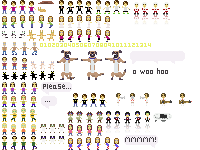
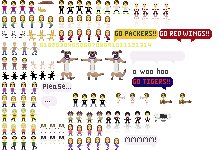
added go packers/tigers/red wings

diff --git a/demo/sarah/SpriteFactory.js b/demo/sarah/SpriteFactory.js
@@ -55,7 +55,6 @@
 			});
 		},
 
-
 		raceClock: function(position) {
 			return new L7.Actor({
 				framesConfig: {
@@ -511,6 +510,57 @@
 					initialFrame: 0,
 					anchor: L7.p(0, 0),
 					offset: L7.p(0, 108)
+				},
+				position: position || L7.p(0, 0)
+			});
+		},
+
+		goPackers: function(position) {
+			return new L7.Actor({
+				framesConfig: {
+					src: this.image,
+					width: 44,
+					height: 14,
+					direction: 'horizontal',
+					sets: [[0]],
+					initialSet: 0,
+					initialFrame: 0,
+					anchor: L7.p(0, 0),
+					offset: L7.p(114, 29)
+				},
+				position: position || L7.p(0, 0)
+			});
+		},
+
+		goTigers: function(position) {
+			return new L7.Actor({
+				framesConfig: {
+					src: this.image,
+					width: 40,
+					height: 14,
+					direction: 'horizontal',
+					sets: [[0]],
+					initialSet: 0,
+					initialFrame: 0,
+					anchor: L7.p(0, 0),
+					offset: L7.p(132, 77)
+				},
+				position: position || L7.p(0, 0)
+			});
+		},
+
+		goRedWings: function(position) {
+			return new L7.Actor({
+				framesConfig: {
+					src: this.image,
+					width: 52,
+					height: 14,
+					direction: 'horizontal',
+					sets: [[0]],
+					initialSet: 0,
+					initialFrame: 0,
+					anchor: L7.p(0, 0),
+					offset: L7.p(159, 29)
 				},
 				position: position || L7.p(0, 0)
 			});

diff --git a/demo/sarah/boards/LowerPeninsula.js b/demo/sarah/boards/LowerPeninsula.js
@@ -10,15 +10,34 @@
 		var chad = spriteFactory.chad(L7.p(10, 20));
 		var tammy = spriteFactory.tammy(L7.p(0, 21));
 		var troll = spriteFactory.troll(L7.p(3, 43));
+		var goTigers = spriteFactory.goTigers(L7.p(11, 5));
+		var goRedWings = spriteFactory.goRedWings(L7.p(3, 5));
 
 		board.addActors(matt, sarah, mom, dad, chad, tammy, troll);
 
-		board.ani.frame({
-			targets: [matt, sarah, mom, chad, tammy, troll],
-			pieceSetIndex: 1,
-			rate: 150,
-			looping: 'backforth',
-			loops: Infinity
+		board.ani.together(function(ani) {
+			ani.frame({
+				targets: [matt, sarah, mom, chad, tammy, troll],
+				pieceSetIndex: 1,
+				rate: 150,
+				looping: 'backforth',
+				loops: Infinity
+			});
+			ani.sequence(function(ani) {
+				ani.wait(1500);
+				ani.invoke(function() {
+					board.addActor(goTigers);
+				});
+				ani.wait(2000);
+				ani.invoke(function() {
+					board.removeActor(goTigers);
+					board.addActor(goRedWings);
+				});
+				ani.wait(2000);
+				ani.invoke(function() {
+					board.removeActor(goRedWings);
+				});
+			});
 		});
 
 		dad.ani.frame({

diff --git a/demo/sarah/boards/UpperPeninsula.js b/demo/sarah/boards/UpperPeninsula.js
@@ -9,20 +9,32 @@
 		var ted = spriteFactory.ted(L7.p(50, 21));
 		var emily = spriteFactory.emily(L7.p(10, 21));
 		var phil = spriteFactory.phil(L7.p(0, 19));
+		var goPackers = spriteFactory.goPackers(L7.p(3, 5));
 
 		board.addActors(matt, sarah, chris, ted, emily, phil);
 
-		board.ani.frame({
-			targets: [matt, sarah, chris, ted, emily, phil],
-			pieceSetIndex: 1,
-			rate: 150,
-			looping: 'backforth',
-			loops: Infinity
+		board.ani.together(function(ani) {
+			ani.frame({
+				targets: [matt, sarah, chris, ted, emily, phil],
+				pieceSetIndex: 1,
+				rate: 150,
+				looping: 'backforth',
+				loops: Infinity
+			});
+			ani.sequence(function(ani) {
+				ani.wait(2000);
+				ani.invoke(function() {
+					board.addActor(goPackers);
+				});
+				ani.wait(3500);
+				ani.invoke(function() {
+					board.removeActor(goPackers);
+				});
+			});
 		});
 
 		return board;
 	};
 
 })();
-
 
